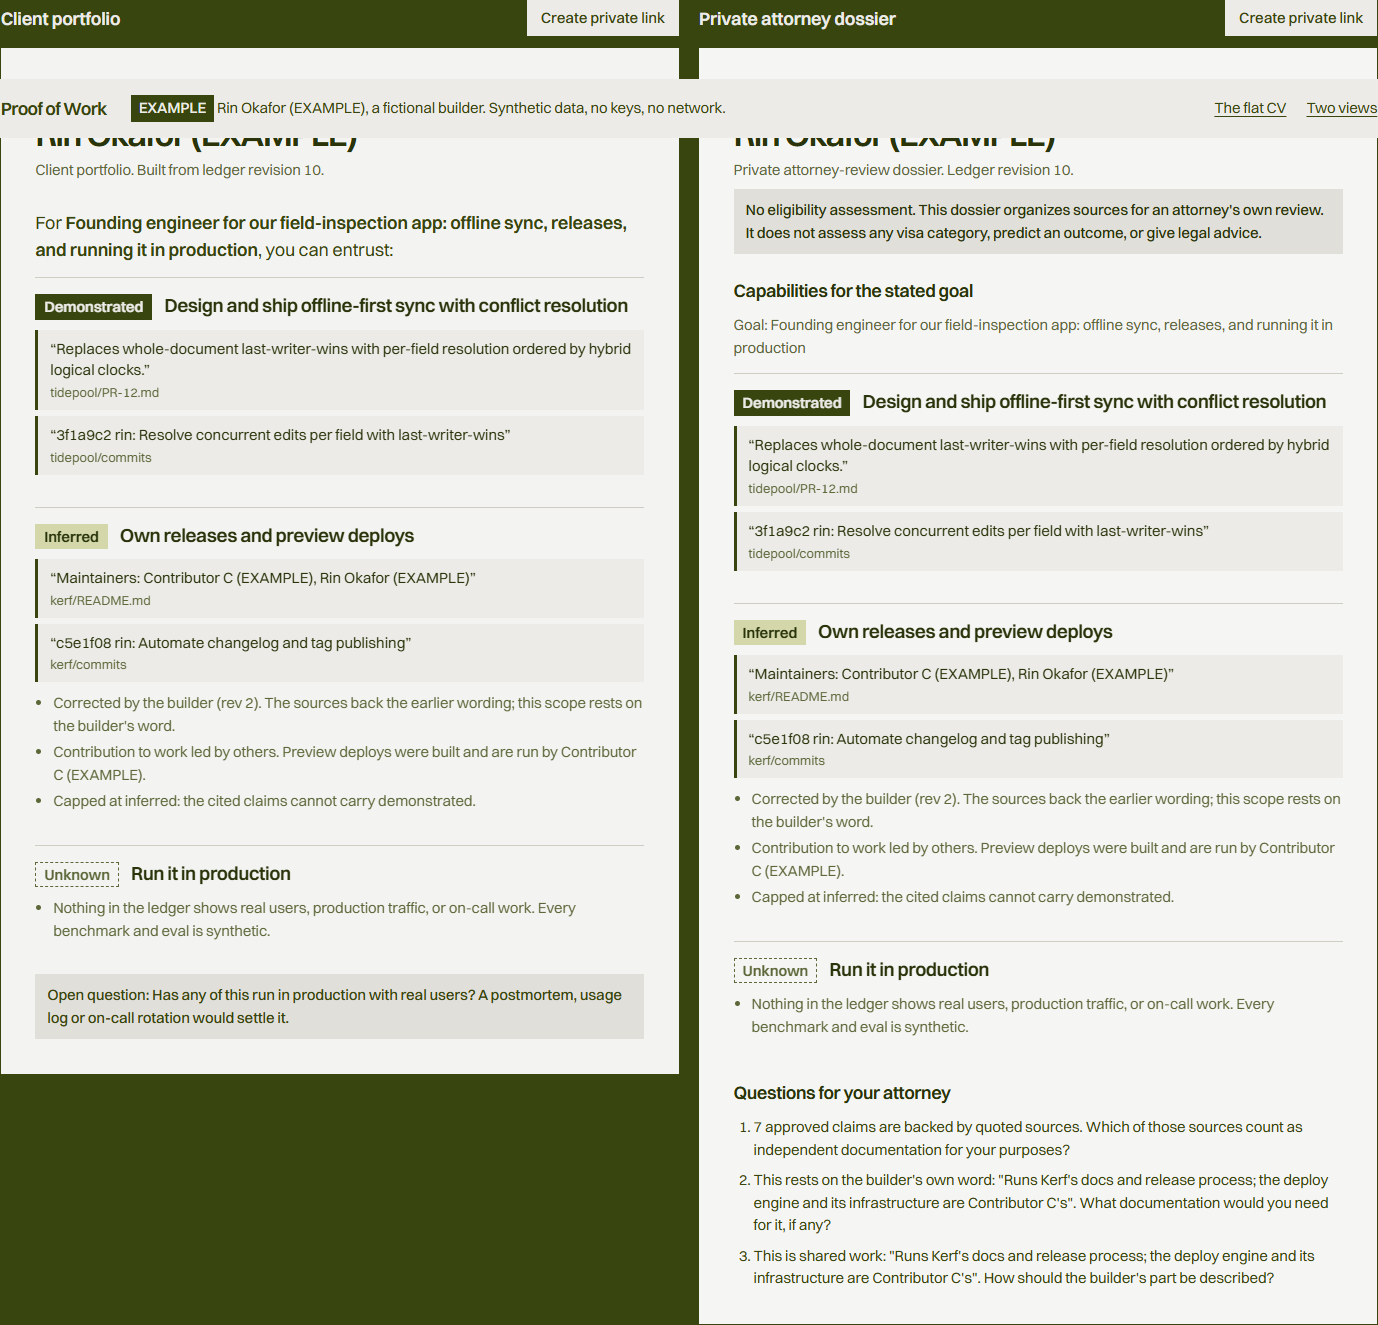
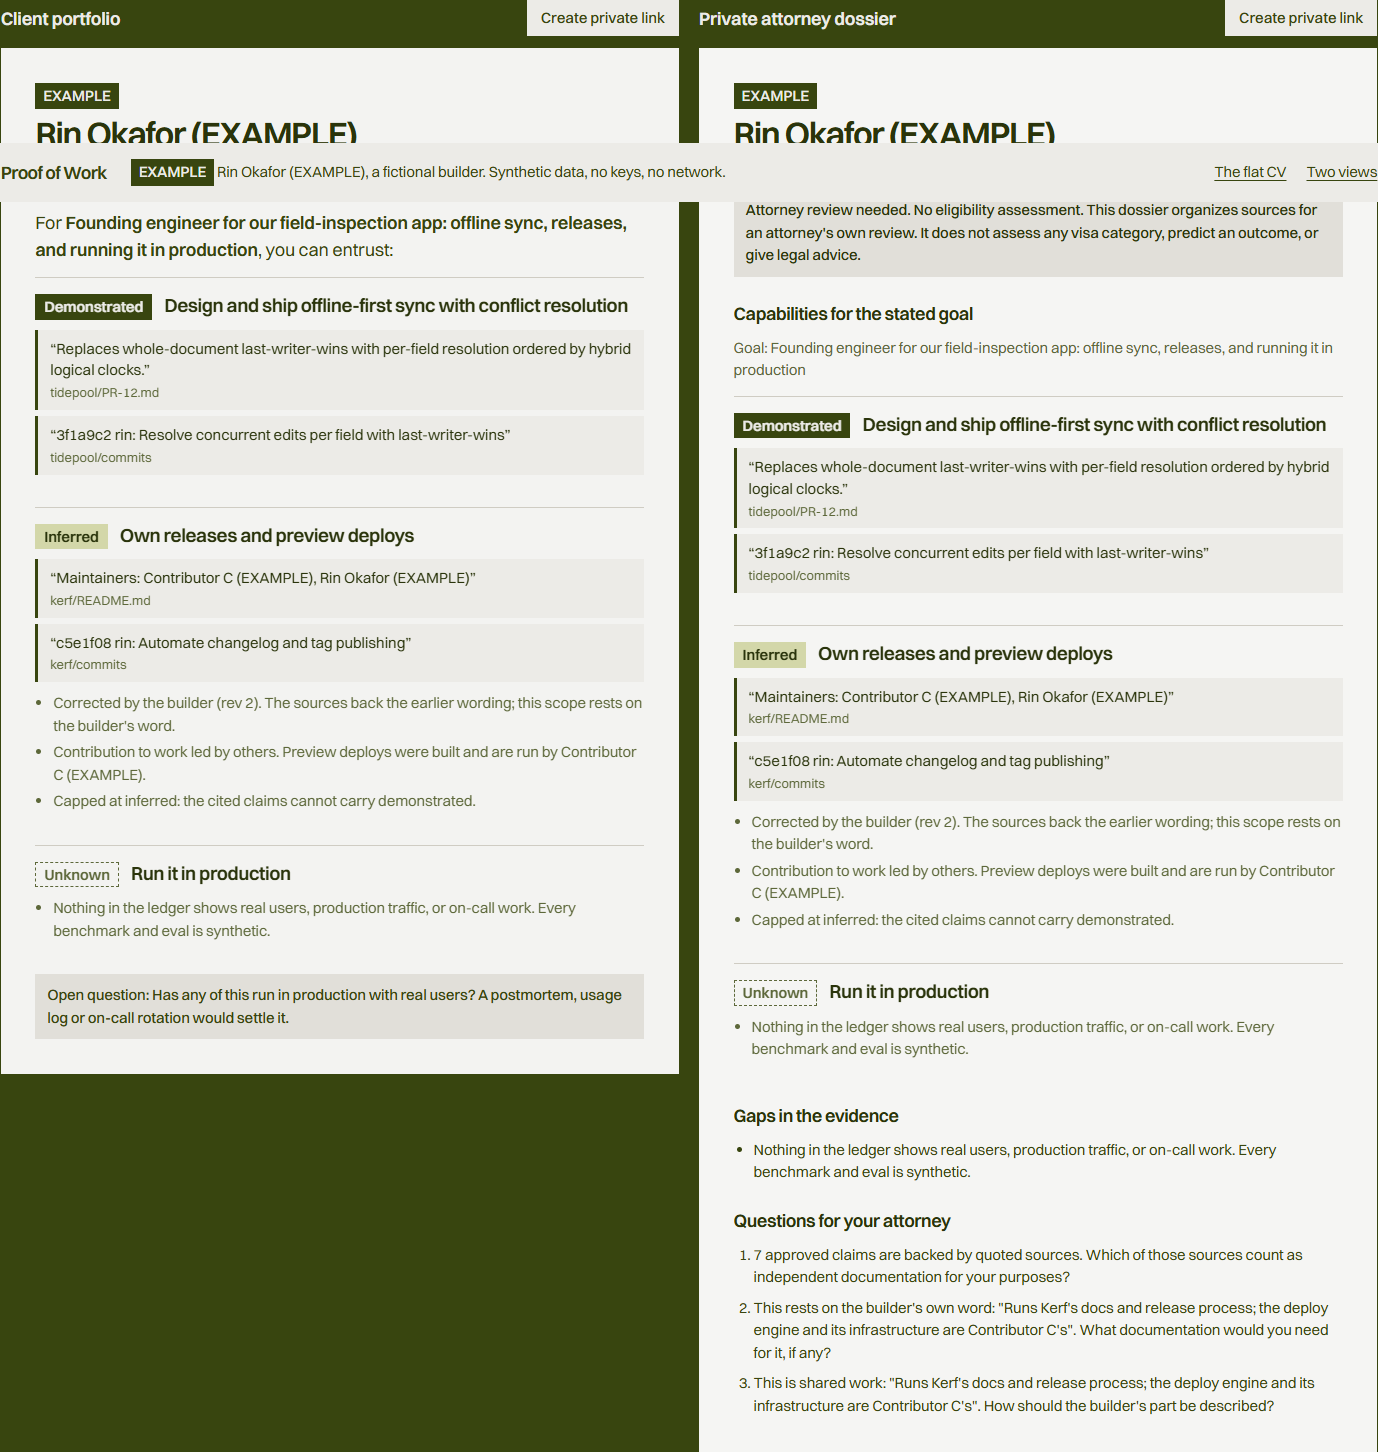
feat: close addendum gaps (Contributor B named, inferred triage part, dossier gaps and attorney-review label)

Changed region(s): [[0.0, 0.0, 1.0, 0.9902], [0.0, 0.7426, 0.4993, 0.8355]]

diff --git a/components/docs.tsx b/components/docs.tsx
@@ -123,7 +123,7 @@ export function AttorneyDoc({ view, onOpen, compact }: { view: AttorneyView; onO
         {view.example && <span className="example-flag">EXAMPLE</span>}
         <h3 className={styles.docTitle}>{view.person.name}</h3>
         <p className="muted small">Private attorney-review dossier. Ledger revision {view.ledgerRevision}.</p>
-        <p className={styles.disclaimer}>{view.disclaimer}</p>
+        <p className={styles.disclaimer}>Attorney review needed. {view.disclaimer}</p>
       </header>
 
       <section className={styles.block}>
@@ -145,6 +145,17 @@ export function AttorneyDoc({ view, onOpen, compact }: { view: AttorneyView; onO
           </div>
         )}
       </section>
+
+      {view.gaps.length > 0 && (
+        <section className={styles.block}>
+          <h4 className={styles.blockTitle}>Gaps in the evidence</h4>
+          <ul className={styles.questions}>
+            {view.gaps.map((g) => (
+              <li key={g}>{g}</li>
+            ))}
+          </ul>
+        </section>
+      )}
 
       <section className={styles.block}>
         <h4 className={styles.blockTitle}>Questions for your attorney</h4>

diff --git a/tests/acceptance.test.ts b/tests/acceptance.test.ts
@@ -200,6 +200,17 @@ describe("entrust question", () => {
     expect(projection.discarded.map((d) => d.name)).toEqual(["Invented", "Unapproved"]);
   });
 
+  it("'what next' links Tidepool sync and Quietroom AI, with prioritization only inferred", async () => {
+    const { db, token, workspaceId, profile } = await exampleWorkspace();
+    await approveAllAndEvaluate(db, token, workspaceId, profile.goal);
+    const next = deriveEntrust(snap(db, workspaceId)).nextBuild!;
+    const projects = new Set(next.parts.flatMap((p) => p.claims.map((c) => c.projectTitle)));
+    expect(projects).toEqual(new Set(["Tidepool", "Quietroom"]));
+    expect(next.parts.find((p) => p.name.startsWith("Triage"))!.support).toBe("inferred");
+    expect(next.parts.every((p) => p.evidence.length > 0)).toBe(true);
+    expect(next.gaps.join(" ")).toMatch(/synthetic/);
+  });
+
   it("'what next' proposal only cites approved evidence", async () => {
     const { db, token, workspaceId, profile } = await exampleWorkspace();
     const kerf = claimByText(db, workspaceId, "Co-maintains Kerf, including its release process");

diff --git a/lib/capabilities/fixture-engine.ts b/lib/capabilities/fixture-engine.ts
@@ -60,10 +60,12 @@ const NEXT_BUILD = {
     { name: "Timeline rebuilt from a local event log", tags: ["event-sourcing"] },
     { name: "AI tagging that must match a schema", tags: ["structured-outputs"] },
     { name: "Note text treated as data, never as instructions", tags: ["prompt-injection"] },
+    { name: "Triage ranked by how many inspectors raised an issue", tags: ["prioritization"] },
   ],
   gaps: [
     "Production scale: nothing shows Tidepool or Quietroom with real users.",
     "Real-data quality: Quietroom was evaluated on 20 synthetic examples only.",
+    "Open question: has any part of this run with real users or real field data?",
   ],
 };
 

diff --git a/fixtures/example-rin/tidepool/README.md b/fixtures/example-rin/tidepool/README.md
@@ -9,6 +9,7 @@ EXAMPLE project: synthetic, created for a demo. Not a real product.
 - Edits are events in an append-only local log, stamped with a hybrid logical clock.
 - Concurrent edits are resolved per field with last-writer-wins, ordered by the clock, so two people editing different fields of the same note both keep their change.
 - The storage adapter writes the log to IndexedDB in the browser and to SQLite on desktop.
+- The storage adapter was written by Contributor B (EXAMPLE).
 
 ## Status
 
